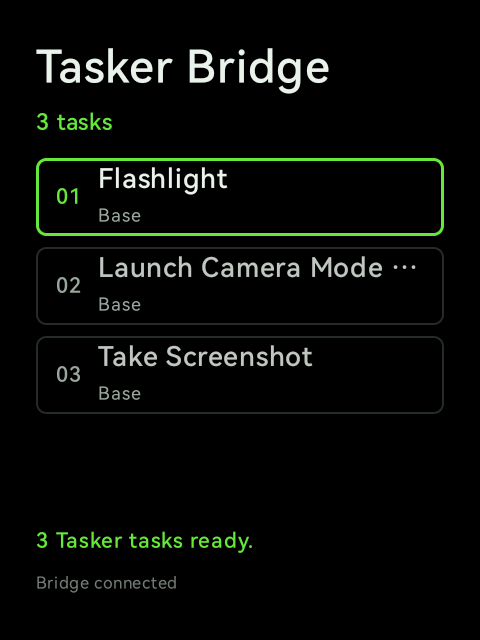
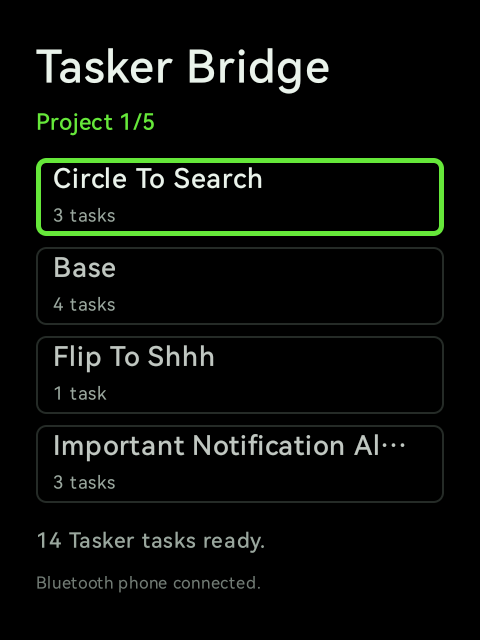
docs: refresh app screenshots

diff --git a/README.md b/README.md
@@ -18,13 +18,13 @@
 Tasker Bridge lets you launch your Android Tasker automations from a simple Rokid Glasses HUD. Install the phone APK, start the bridge, then pick and run your tasks directly from the glasses.
 
 <p align="center">
-  <img src="assets/screenshots/phone.png" width="260" alt="Tasker Bridge phone app" />
+  <a href="assets/screenshots/phone.png"><img src="assets/screenshots/phone.png" width="260" alt="Tasker Bridge phone companion showing the connected HUD and Tasker task list" /></a>
   &nbsp;&nbsp;&nbsp;&nbsp;
-  <img src="assets/screenshots/glasses.png" width="260" alt="Tasker Bridge glasses HUD" />
+  <a href="assets/screenshots/glasses.png"><img src="assets/screenshots/glasses.png" width="260" alt="Tasker Bridge Rokid Glasses HUD showing project navigation" /></a>
 </p>
 
 <p align="center">
-  <em>Phone companion &middot; Rokid Glasses HUD</em>
+  <em>Phone bridge and Tasker tasks &middot; Rokid Glasses project HUD</em>
 </p>
 
 ## Download